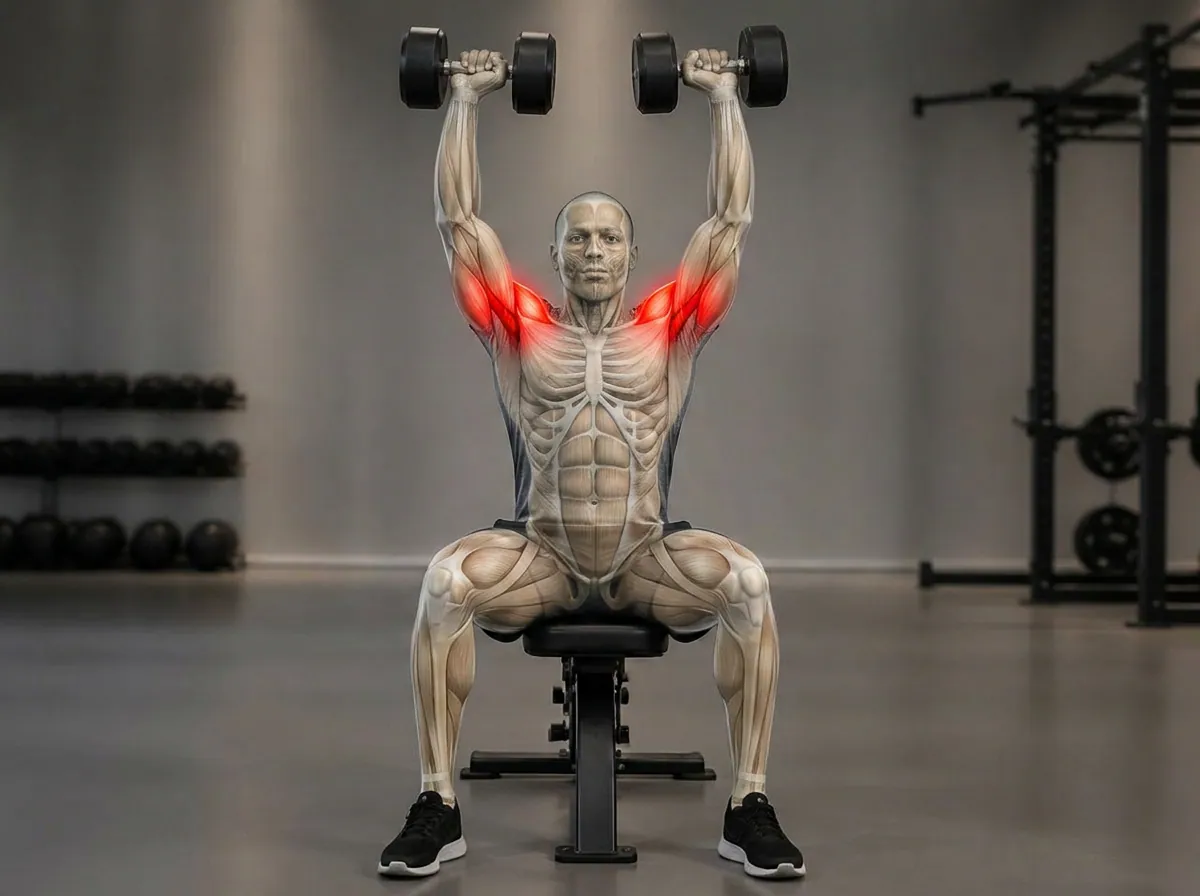
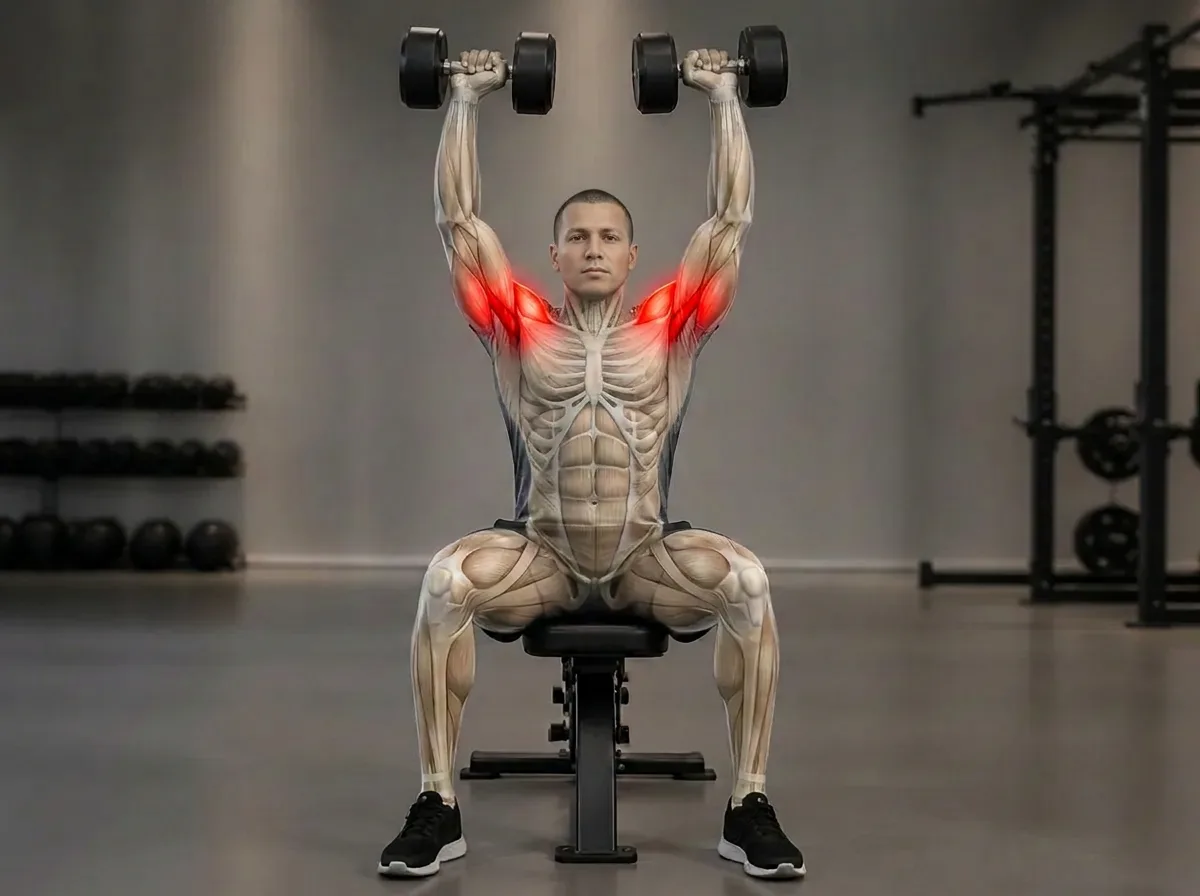
Imagens rodada 4: costas refeitas com a licao, 3 mapas novos e 2 rostos
Loop de imagens, iteracao 1 (rodada 4 do Lovable). 7/7 aprovadas na
conferencia visual:

- As DUAS COSTAS REPROVADAS na rodada 3 foram refeitas com a licao
  aplicada (nenhum azul abaixo da dobra do joelho; gluteo maximo do
  bulgaro em azul-escuro por ser primario, 68): agachamento-bulgaro-back
  e subida-step-back entraram.
- Mapas novos: desenvolvimento-maquina (frente gerada; costas COPIADA
  de supino-maquina-back, que tem o padrao identico de triceps medio),
  remada-curvada-halteres (costas gerada com eretores da espinha em
  azul-claro; frente copiada de remada-maquina-front, biceps medio) e
  triceps-frances-halter (costas, triceps escuro primario).
  Licao registrada: padrao identico ja aprovado se copia, nao se gera.
- Rostos consertados: remada-baixa (caveira de perfil com dentes ->
  silhueta lisa translucida) e desenvolvimento-ombros (musculatura
  facial exposta -> rosto com pele normal).

Fila de mapa muscular: 66 -> 63 exercicios. Rostos confirmados
pendentes: hip-thrust, ponte-gluteos, caminhada-esteira (+ varredura
do restante). Estado e licoes em scratchpad/loop-state.json.

check:catalogo integro, 25 checks e build verdes.

Changed region(s): [[0.4625, 0.1875, 0.555, 0.375]]

diff --git a/src/data/muscle-map-images.ts b/src/data/muscle-map-images.ts
@@ -38,8 +38,11 @@ export const muscleMapImages: Record<string, { front?: string; back?: string }> 
   "remada-maquina": { front: "/anatomy/mm/remada-maquina-front.webp", back: "/anatomy/mm/remada-maquina-back.webp" },
   "elevacao-lateral-halteres": { front: "/anatomy/mm/elevacao-lateral-halteres-front.webp" },
   "agachamento-goblet": { front: "/anatomy/mm/agachamento-goblet-front.webp" },
-  "agachamento-bulgaro": { front: "/anatomy/mm/agachamento-bulgaro-front.webp" },
-  "subida-step": { front: "/anatomy/mm/subida-step-front.webp" },
+  "agachamento-bulgaro": { front: "/anatomy/mm/agachamento-bulgaro-front.webp", back: "/anatomy/mm/agachamento-bulgaro-back.webp" },
+  "subida-step": { front: "/anatomy/mm/subida-step-front.webp", back: "/anatomy/mm/subida-step-back.webp" },
+  "desenvolvimento-maquina": { front: "/anatomy/mm/desenvolvimento-maquina-front.webp", back: "/anatomy/mm/desenvolvimento-maquina-back.webp" },
+  "remada-curvada-halteres": { front: "/anatomy/mm/remada-curvada-halteres-front.webp", back: "/anatomy/mm/remada-curvada-halteres-back.webp" },
+  "triceps-frances-halter": { back: "/anatomy/mm/triceps-frances-halter-back.webp" },
 };
 
 export function getMuscleMapImages(slug?: string) {
